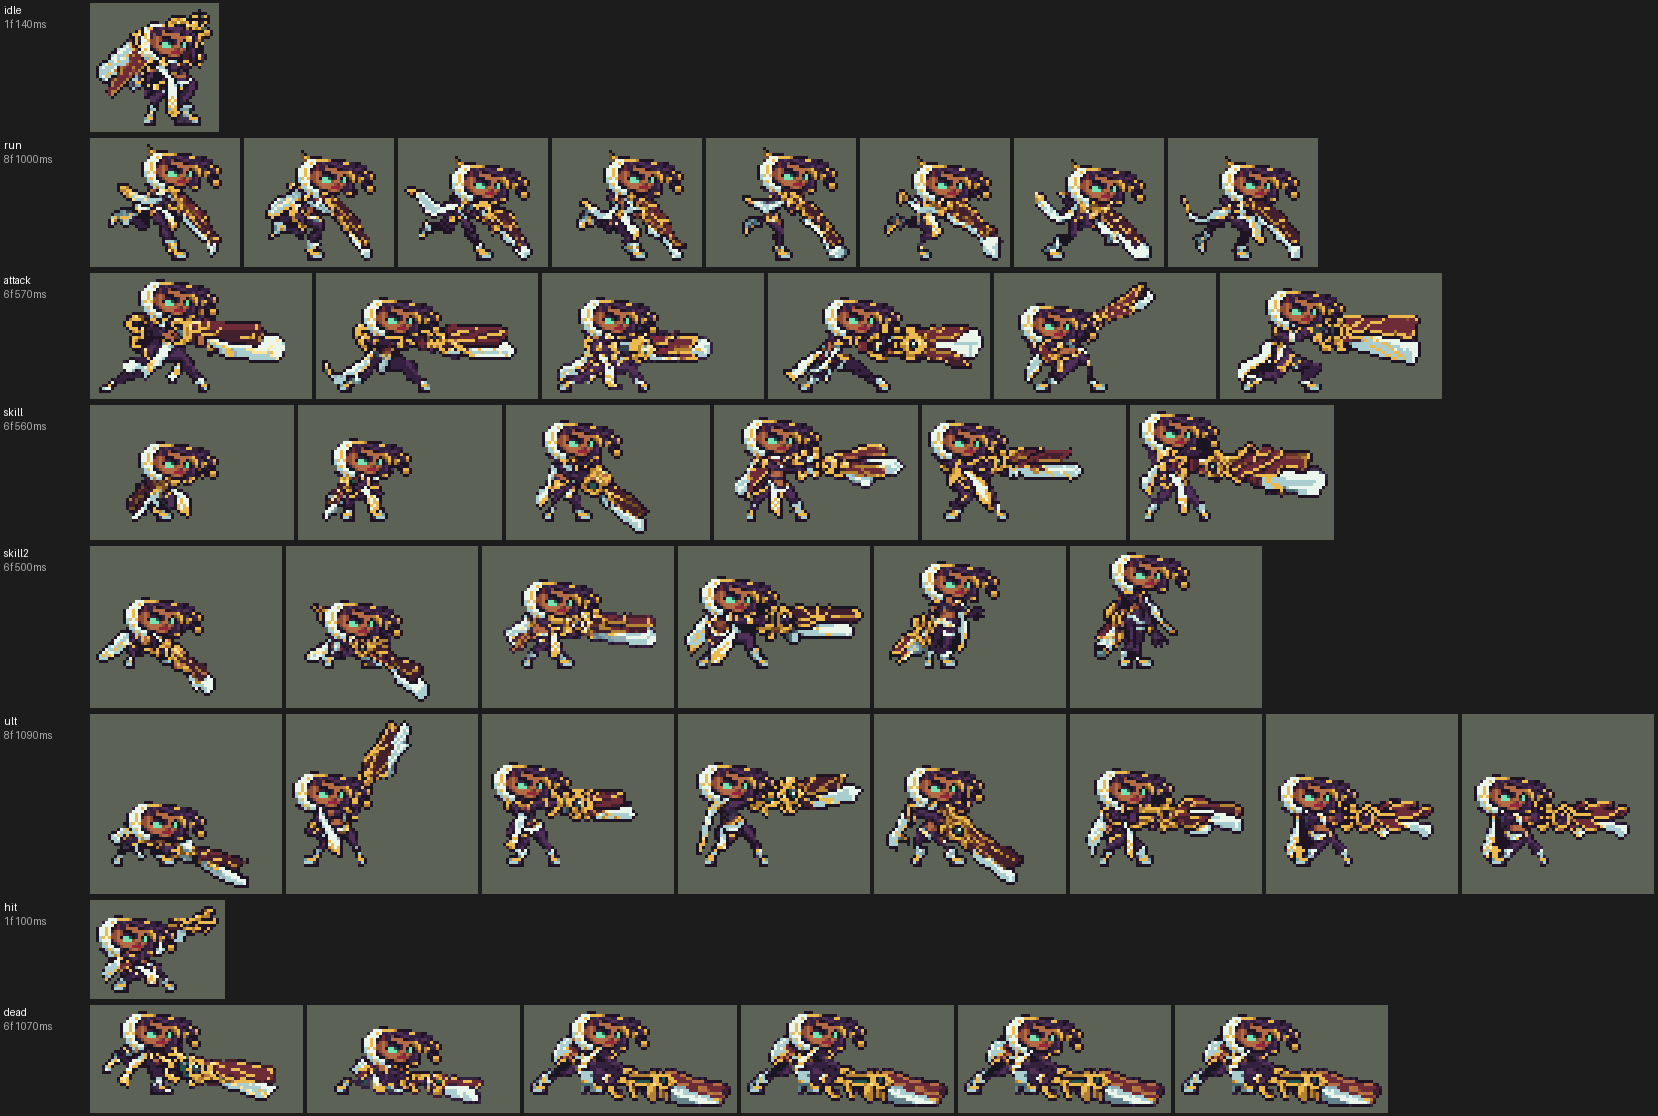
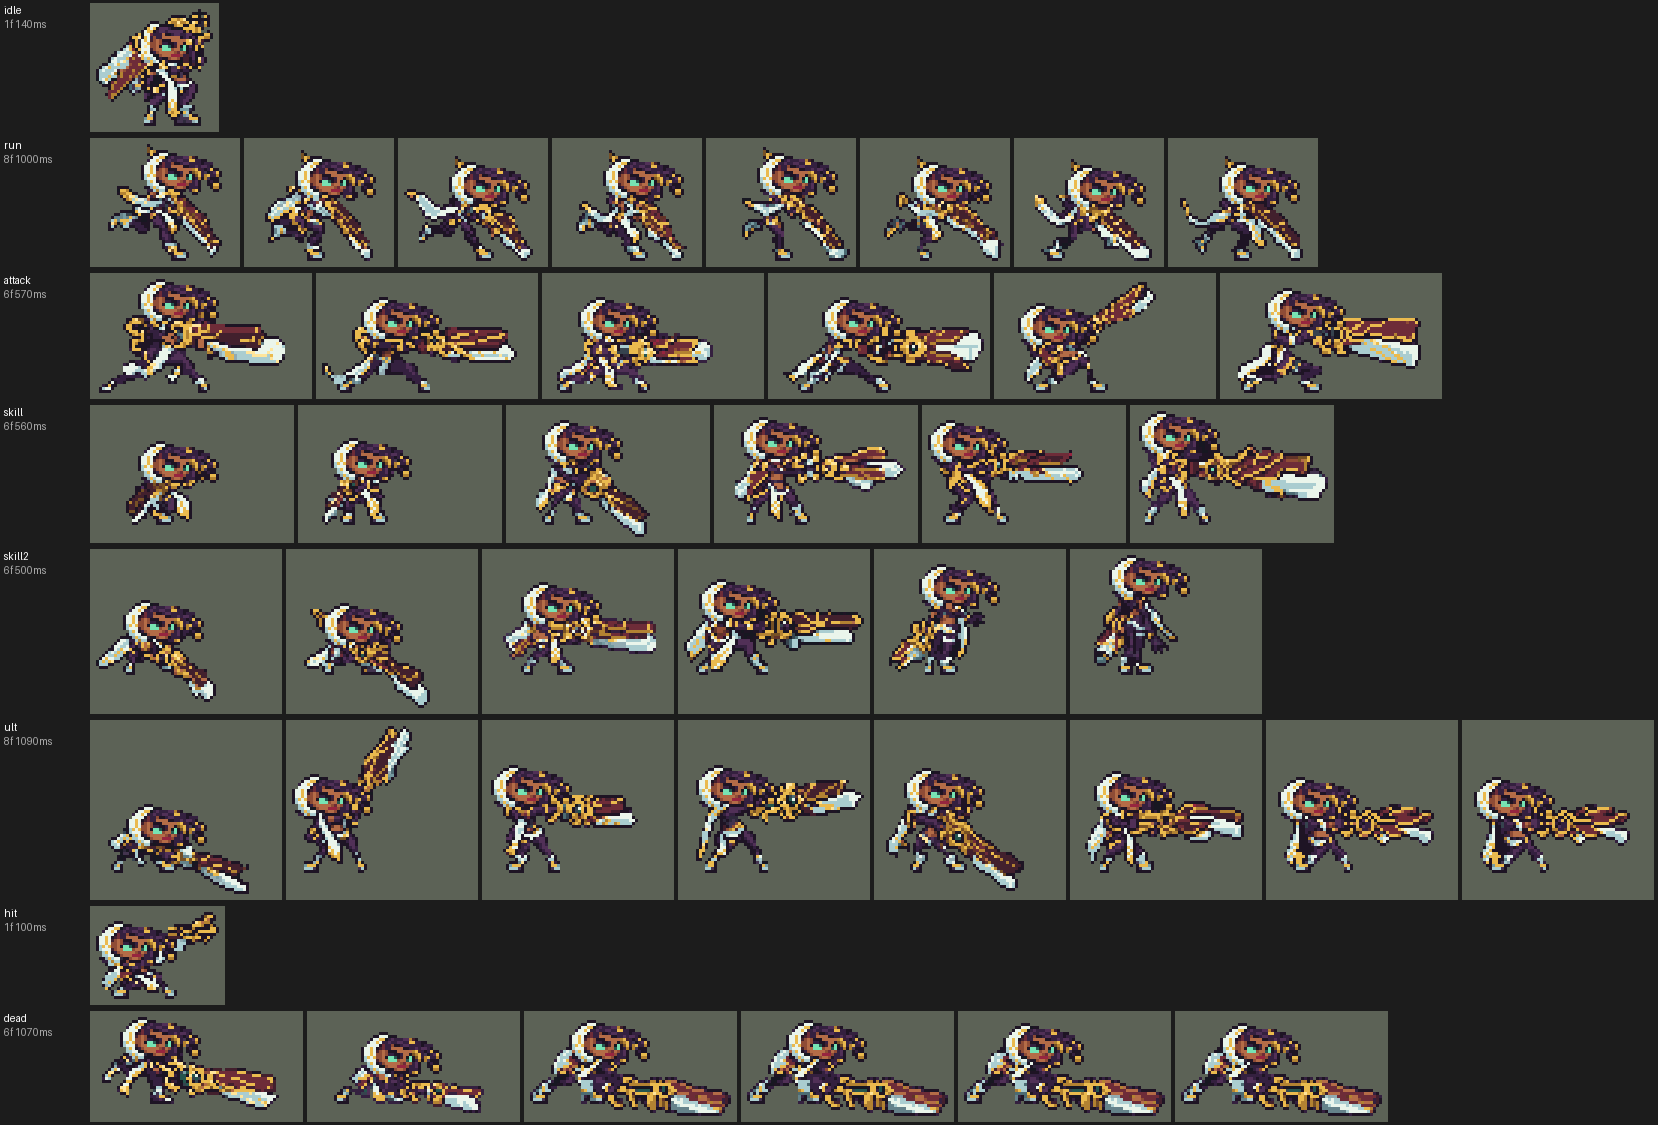
Senna: her hood keeps its dome (one dome row cut, not two)
The user: 「赛娜的头顶有点扁看起来不自然」. head_lines' four cheapest hood rows were every other row from -11 to -5
(from the eyes' corner), two of them in the hood's dome: its top went flat and the outline's steps opened at the
top-left (the white hood touched the ground colour). SHRINK_HEAD now takes fixed rows: one dome row (-10, the
outline stays closed), the two hair rows over the forehead and the plain forehead and cheek rows as before; the
columns are unchanged. The head is a row taller (14 rows in the run, 13 before), the body loses that row instead
(the 85% height is unchanged; the attack's cannon sits a pixel lower, Q's and W's muzzles unchanged). Previews and
README updated.

diff --git a/tools/art/import_native.py b/tools/art/import_native.py
@@ -697,9 +697,13 @@ SHRINK_GROUPS = {"senna": {"dead": [[0], [1], [2, 3, 4, 5]]}}
 # a head drawn the same on every frame loses the same lines in every action (shrink_frames.head_lines; window and keep
 # from the top-left square of the hero's SHRINK_ANCHOR colour, rows / (left, right) columns to take) - cut by each
 # action's own plan, Senna's hood lost other rows in each action and would change shape at every animation change;
-# her whole head is in SHRINK_KEEP, so no other line crosses it
-SHRINK_HEAD = {"senna": {"window": (-12, 6, -11, 18), "keep": (-4, 6, -4, 10), "rows": 4, "cols": (3, 3),
-                         "face_rows": (-3, 2)}}
+# her whole head is in SHRINK_KEEP, so no other line crosses it. fixed_rows: rows it loses as well, from the same
+# square - Senna's: one plain forehead and one cheek row (eyes, brows and mouth untouched), two of the hair over the
+# forehead and ONE of the hood's dome. head_lines' four cheapest (every other row from -11 to -5) took two of the
+# dome's: her hood went flat on top and its outline opened at the top-left (「赛娜的头顶有点扁看起来不自然」); without
+# -11 and -9, -10 keeps the outline's steps closed (the head a row taller: 14 rows in the run, 13 before)
+SHRINK_HEAD = {"senna": {"window": (-12, 6, -11, 18), "keep": (-4, 6, -4, 10), "rows": 0, "cols": (3, 3),
+                         "fixed_rows": (-10, -7, -5, -3, 2)}}
 # rows (from the pivot) no action loses: Senna's stamped boots are three rows, the soles' two are kept anyway
 SHRINK_KEEP_ROWS = {"senna": (9,)}
 # heroes whose anchor colour marks a feature drawn the same in every frame: shifts from its corner square
@@ -1533,7 +1537,7 @@ def main():
             if hero in SHRINK_HEAD:
                 hs = SHRINK_HEAD[hero]
                 head = SF.head_lines(sheet, SHRINK_ANCHOR[hero], hs["window"], hs["rows"], hs["cols"], hs["keep"])
-                head["rows"] = sorted(head["rows"] + list(hs.get("face_rows", ())))
+                head["rows"] = sorted(head["rows"] + list(hs.get("fixed_rows", ())))
                 print(f"{hero}: head lines from the eyes' corner: rows {head['rows']}, columns {head['cols']}")
             idle_plan = SF.shrink_sheet(sheet, SHRINK[hero], keep_colours=SHRINK_KEEP.get(hero, ()), keep_by_tag=SHRINK_KEEP_TAG.get(hero), body=body0,
                                         tags=["idle"], anchor=SHRINK_ANCHOR.get(hero), still=SHRINK_STILL.get(hero, ()),

diff --git a/tools/kit/build_senna.py b/tools/kit/build_senna.py
@@ -63,7 +63,7 @@ BIG = "asset/league/effects/league_senna_big"
 P = {
     "hp": 880, "hp_g": 86, "atk": 75, "atk_g": 9, "def": 20, "def_g": 6, "mr": 22, "mr_g": 3, "ms": 950, "ms_g": 9,
     # attack: the shot leaves the cannon on a_st; a_y: the shots (and W) fly 6 px over the pivot, at the 85% sprite's
-    # muzzles (attack and W about 6 px up)
+    # muzzles (the attack's 3-6 px up since her hood kept its dome, W's 6-7)
     "atk_range": 62000, "atk_dur": 34, "atk_cd": 96, "a_st": 18, "a_speed": 7000, "a_y": -1000,
     # passive Absolution (League: mark 4 s, 1-10% current hp, 0.75 AD a Mist, +20 range and 10% crit every 20)
     "p_mark": 240, "p_lock": 180, "p_hp": 3, "p_wave": 360, "p_atk": 1, "p_rng": 100, "p_ms": 15, "p_ms_t": 30,

diff --git a/README.md b/README.md
@@ -3735,7 +3735,7 @@ python addons/league_senna_mist/make_override.py   # 黑雾常驻附加包的副
 - 造型：Codex 第 1 步交的成品是低精度草稿采样出来的（脸糊成一块），改读它的第 2 张原稿（按自己的格子读回，兜帽到脚底 58 行），整行整列删到几档，用户选 2_40；补上原稿丢掉的远处那只眼睛。
 - 动作：Codex 照英雄联盟的动作逐帧画了 41 帧，用户：「Codex跑步是对的 只要精修就行了」。原稿每帧格子大小不一（8–12 px 一格，按固定 12 px 读会跳格），`fix_senna_strips.py` 按每帧自己的格子读回、按脸和身高统一大小（兜帽到脚底 40 行），炮沿着炮身方向整段挪回（炮里的空格也一起挪，不然会裂开），每帧换成同一个头（第 6 帧跑步的头，脸用 Codex 第一版普攻第 1 帧的脸：用户「之前codex 第一版的脸就挺不错」），落地的脚换成定稿自己的靴子，补洞、去掉孤立的杂点；死亡跪倒后停在跪姿（头低 1 格），R 最后一帧停在开炮后。用户逐条指出眼睛、眉毛、死亡变形、脚的变形，都改了，最后「完美 下一步吧」。
 - 特效：21 张按 `manifest.json` 的每帧区域切（Codex 在透明的空隙上切，帧宽不一，站在一个点上的画每帧取自己的框中间）；挂在人身上和地上的画面叠上自己的左右翻转（红色方不反）。
-- 缩小：用户「模型太大了 能缩小点吗」，对比图里选 85%。`import_native.py` 的 SHRINK 整行整列删除、不重采样（`shrink_frames.py`）：脸逐像素不动；头在每个动作删同样的两行两列（以眼睛为基准，`SHRINK_HEAD`，不然换动作时兜帽形状会跳）；靴子三行不删；腿部的行跟着地面删、不跟着头（`SHRINK_GROUND`：按头的位置删时，身体上下晃的帧删到了脚底下面，脚低了 1–2 格）；大招第 1→2 帧眼睛一下移 13 列，按眼睛那一块的左上角定位（`SHRINK_ROBUST`）；倒地的死亡帧按自己的高度比例删（`SHRINK_GROUPS`）。用户：「这头太大了 跑动时特别违和」——头整块保护时只删 2 行 2 列，跑步时头占了全身近一半；改成头上删 6 行 6 列（兜帽和头发 4 行 6 列，额头、脸颊各一行纯皮肤，眼睛、眉毛、嘴不动），总高度仍是 85%，跑步时头 16 行 → 13 行。这些开关默认关闭，已缩过的图奇、卡尔玛、雷克顿重导结果不变。
+- 缩小：用户「模型太大了 能缩小点吗」，对比图里选 85%。`import_native.py` 的 SHRINK 整行整列删除、不重采样（`shrink_frames.py`）：脸逐像素不动；头在每个动作删同样的两行两列（以眼睛为基准，`SHRINK_HEAD`，不然换动作时兜帽形状会跳）；靴子三行不删；腿部的行跟着地面删、不跟着头（`SHRINK_GROUND`：按头的位置删时，身体上下晃的帧删到了脚底下面，脚低了 1–2 格）；大招第 1→2 帧眼睛一下移 13 列，按眼睛那一块的左上角定位（`SHRINK_ROBUST`）；倒地的死亡帧按自己的高度比例删（`SHRINK_GROUPS`）。用户：「这头太大了 跑动时特别违和」——头整块保护时只删 2 行 2 列，跑步时头占了全身近一半；改成头上删 6 行 6 列（兜帽和头发 4 行 6 列，额头、脸颊各一行纯皮肤，眼睛、眉毛、嘴不动），总高度仍是 85%，跑步时头 16 行 → 13 行。之后用户：「赛娜的头顶有点扁看起来不自然」——兜帽的圆顶原来隔行删了两行，顶上被压平、左上角的描边也断开了；现在圆顶只删一行（描边的台阶还连着），头发两行、额头和脸颊各一行照旧，头共删 5 行 6 列，跑步时头 14 行。这些开关默认关闭，已缩过的图奇、卡尔玛、雷克顿重导结果不变。
 
 逐帧预览：[`docs/preview/league_senna_frames.png`](docs/preview/league_senna_frames.png)，特效：[`docs/preview/league_senna_effects.png`](docs/preview/league_senna_effects.png)。
 
